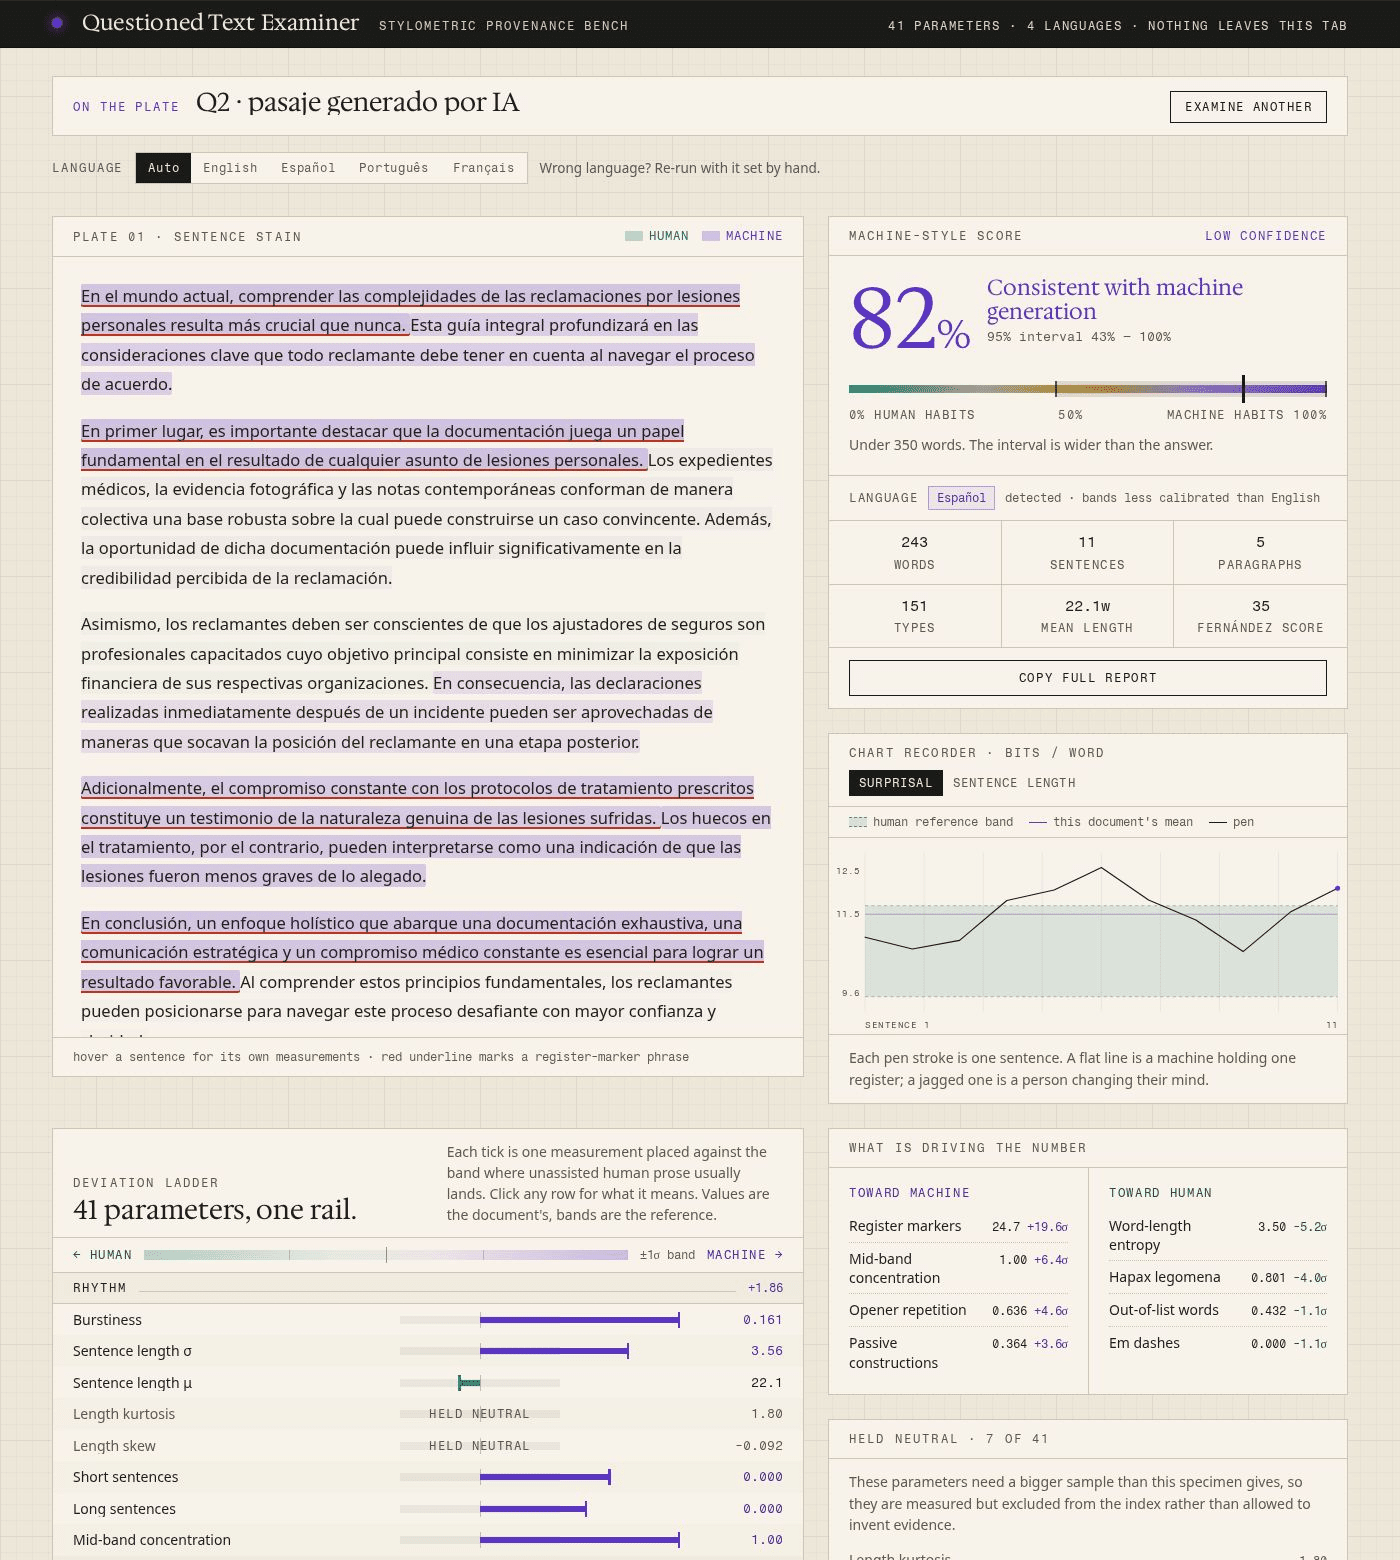
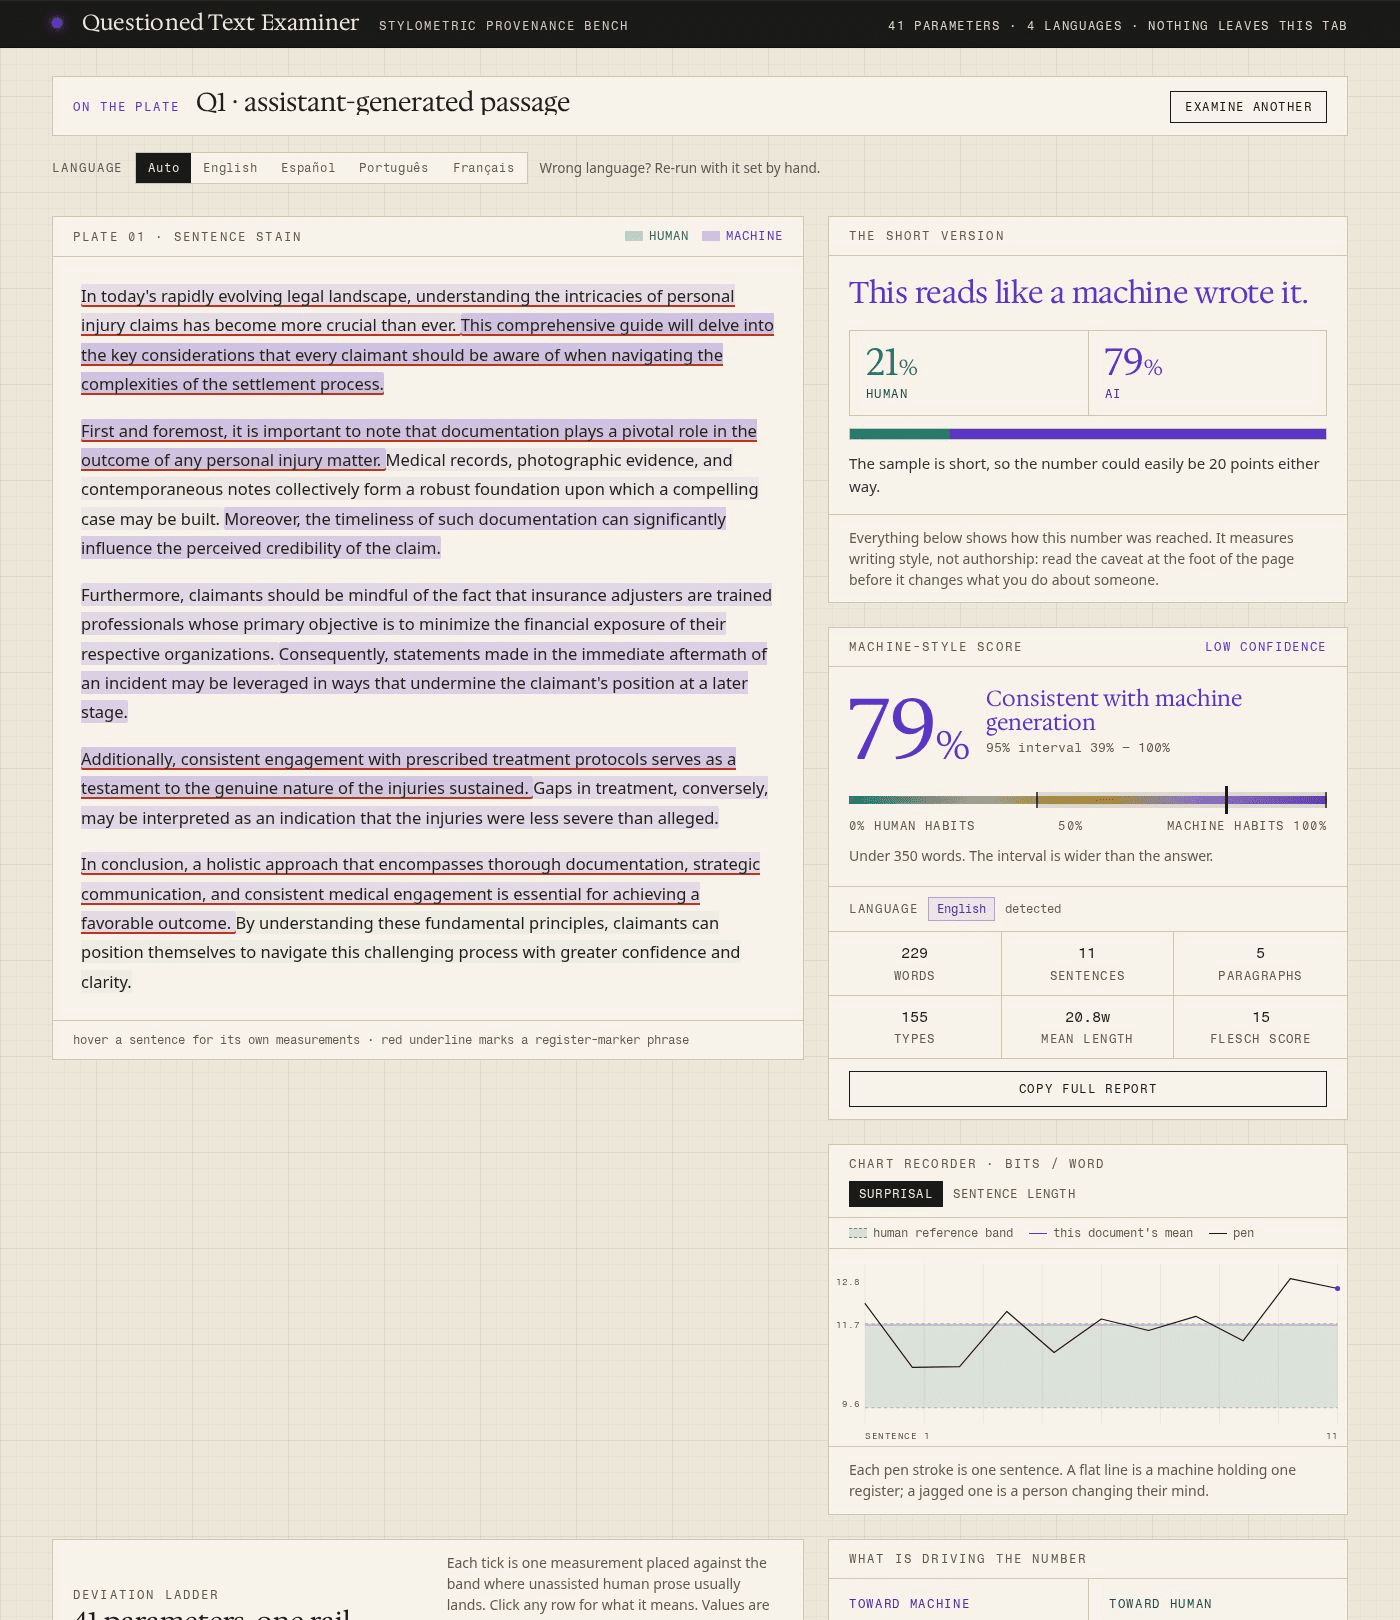
Add files via upload

diff --git a/src/ui/PlainReading.jsx b/src/ui/PlainReading.jsx
@@ -1,0 +1,80 @@
+import { band } from "./Verdict.jsx";
+
+/** The one-sentence version, for anyone who does not want to read a ladder. */
+function verdictSentence(r) {
+  const p = r.percent;
+  if (p < 28) return "This reads like a person wrote it.";
+  if (p < 45) return "This leans human, with some passages that read machine-like.";
+  if (p < 58) return "This could go either way. The bench genuinely cannot tell.";
+  if (p < 75) return "This leans machine-written, probably with human editing on top.";
+  return "This reads like a machine wrote it.";
+}
+
+function trustSentence(r) {
+  if (r.reliability === "insufficient") return "The sample is far too short to mean anything. Treat it as noise.";
+  if (r.reliability === "low") return "The sample is short, so the number could easily be 20 points either way.";
+  if (r.reliability === "moderate") return "Enough text for a direction, not a verdict.";
+  return "The sample is long enough for the measurements to settle.";
+}
+
+export default function PlainReading({ report }) {
+  const b = band(report.index);
+  const human = report.humanPercent;
+  const ai = report.percent;
+
+  return (
+    <section data-anim className="border border-[#CFC6B2] bg-[#F7F3EA]" style={{ animation: "riseIn 520ms ease-out both" }}>
+      <p className="border-b border-[#CFC6B2] px-5 py-2.5 font-['Fragment_Mono'] text-[12px] uppercase tracking-[0.18em] text-[#615A4A]">
+        The short version
+      </p>
+
+      <div className="px-5 pt-5">
+        <p className="font-['Hedvig_Letters_Serif'] text-[30px] leading-[1.12] tracking-[-0.01em]" style={{ color: b.tone }}>
+          {verdictSentence(report)}
+        </p>
+
+        <div className="mt-5 flex items-stretch gap-0 border border-[#CFC6B2]">
+          <div className="flex-1 px-4 py-3">
+            <p className="font-['Hedvig_Letters_Serif'] text-[38px] leading-none text-[#16776A]">
+              {human}
+              <span className="text-[22px]">%</span>
+            </p>
+            <p className="mt-1 font-['Fragment_Mono'] text-[12px] uppercase tracking-[0.12em] text-[#0F5A50]">human</p>
+          </div>
+          <div className="flex-1 border-l border-[#CFC6B2] px-4 py-3">
+            <p className="font-['Hedvig_Letters_Serif'] text-[38px] leading-none text-[#5B33C7]">
+              {ai}
+              <span className="text-[22px]">%</span>
+            </p>
+            <p className="mt-1 font-['Fragment_Mono'] text-[12px] uppercase tracking-[0.12em] text-[#4A25AE]">ai</p>
+          </div>
+        </div>
+
+        <div className="mt-3 flex h-[12px] overflow-hidden border border-[#CFC6B2]">
+          <div style={{ width: `${human}%`, background: "#16776A" }} />
+          <div style={{ width: `${ai}%`, background: "#5B33C7" }} />
+        </div>
+
+        <p className="mt-3 text-[15px] leading-[1.55] text-[#3B372F]">{trustSentence(report)}</p>
+      </div>
+
+      {!report.shape.prose && (
+        <div className="mt-4 border-t border-[#C0341C]/35 bg-[#C0341C]/[0.06] px-5 py-4">
+          <p className="font-['Fragment_Mono'] text-[12px] uppercase tracking-[0.14em] text-[#8A2413]">
+            Ignore the number for this one
+          </p>
+          <p className="mt-1.5 text-[15px] leading-[1.55] text-[#7E1F0F]">
+            This is a list or an outline, not flowing prose ({report.shape.reasons.join(", ")}). Documents shaped like this
+            score human almost automatically, whoever wrote them, because every fragment looks like natural variation. Paste
+            only the real sentences for an answer worth having.
+          </p>
+        </div>
+      )}
+
+      <p className="mt-4 border-t border-[#CFC6B2] px-5 py-3 text-[14px] leading-[1.5] text-[#615A4A]">
+        Everything below shows how this number was reached. It measures writing style, not authorship: read the caveat at the
+        foot of the page before it changes what you do about someone.
+      </p>
+    </section>
+  );
+}

diff --git a/src/engine/analyze.js b/src/engine/analyze.js
@@ -558,11 +558,32 @@ export async function analyze(raw, onProgress = () => {}, opts = {}) {
     foundRegister.sort((a, b) => b[1] - a[1]);
   }
 
+  // Is this document flowing prose at all? Fragment-heavy outlines, tables and
+  // checklists score human almost automatically, because every fragment reads
+  // as a burst of variation. Say so instead of letting the number stand alone.
+  const fragmentRate = shareSent(lens.filter((n) => n < 6).length);
+  const unpunctuated = shareSent(rows.length ? sentRows.filter((r) => !/[.!?…][")'’”]*$/.test(r.text.trim())).length : 0);
+  const wordsPerPara = paraLens.length ? mean(paraLens) : totalWords;
+  // Real hand-typed notes are full of short sentences, so no single symptom is
+  // enough: it takes two, or an overwhelming one, to call a document ineligible.
+  const shape = (() => {
+    const reasons = [];
+    if (raws.listRate > 0.3) reasons.push(`${Math.round(raws.listRate * 100)}% of lines are bulleted or numbered`);
+    if (wordsPerPara < 12 && paras.length > 8) reasons.push(`paragraphs average only ${wordsPerPara.toFixed(0)} words`);
+    if (fragmentRate > 0.42) reasons.push(`${Math.round(fragmentRate * 100)}% of sentences are under six words`);
+    if (unpunctuated > 0.5) reasons.push(`${Math.round(unpunctuated * 100)}% of lines end without punctuation`);
+    const overwhelming = raws.listRate > 0.6 || (wordsPerPara < 8 && paras.length > 12);
+    if (reasons.length >= 2 || overwhelming) return { prose: false, reasons, severity: "high" };
+    return { prose: true, reasons };
+  })();
+
   onProgress({ phase: "Done", pct: 1 });
 
   return {
     index,
     percent: Math.round(index * 100),
+    humanPercent: 100 - Math.round(index * 100),
+    shape,
     half, logit, signals, families, rows,
     language: {
       code: L.code,

diff --git a/src/ui/Verdict.jsx b/src/ui/Verdict.jsx
@@ -119,6 +119,14 @@ function buildReport(r, source) {
   L.push(`specimen: ${source || "untitled"}`);
   L.push(`generated: ${new Date().toISOString()}`);
   L.push("");
+  L.push(`PLAIN READING: ${r.humanPercent}% human / ${r.percent}% AI — ${b.label.toLowerCase()}`);
+  if (!r.shape.prose) {
+    L.push("");
+    L.push("!! DOCUMENT SHAPE WARNING: this is a list or outline, not flowing prose");
+    L.push(`   (${r.shape.reasons.join(", ")}). Text shaped like this scores human`);
+    L.push("   almost automatically, whoever wrote it. The score above is not usable.");
+  }
+  L.push("");
   L.push(`MACHINE-STYLE SCORE: ${r.percent}%   (95% CI ${Math.round(Math.max(0, r.index - r.half) * 100)}%–${Math.round(Math.min(1, r.index + r.half) * 100)}%)`);
   L.push(`reading: ${b.label}`);
   L.push(`sample reliability: ${r.reliability}`);

diff --git a/src/App.jsx b/src/App.jsx
@@ -40,6 +40,7 @@ import { analyze, SIGNAL_SPEC } from "./engine/analyze.js";
 import { SUPPORTED } from "./engine/languages/index.js";
 import { extractText } from "./engine/extract.js";
 import Intake from "./ui/Intake.jsx";
+import PlainReading from "./ui/PlainReading.jsx";
 import Verdict from "./ui/Verdict.jsx";
 import Trace from "./ui/Trace.jsx";
 import Ladder from "./ui/Ladder.jsx";
@@ -126,6 +127,7 @@ export default function App() {
                 <Plate report={report} />
               </div>
               <div className="order-1 space-y-6 lg:order-2 lg:sticky lg:top-6">
+                <PlainReading report={report} />
                 <Verdict report={report} source={source} />
                 <Trace report={report} />
               </div>

diff --git a/README.md b/README.md
@@ -4,7 +4,7 @@ A local, inspectable stylometric bench for the question "was this document writt
 
 It reads a file in your browser, measures **41 stylometric parameters** across six families, and reports each one next to the reference band where unassisted human prose usually lands. Nothing is uploaded, no API key is needed, and there is no size ceiling: the file is parsed and measured in the tab, then forgotten when you close it.
 
-Works in **English, Spanish, Portuguese and French**. The result is a single **machine-style percentage** with a confidence interval that widens honestly on short samples.
+Works in **English, Spanish, Portuguese and French**. It opens with a plain-language verdict ("This reads like a person wrote it") and a **human / AI percentage split**, then shows every measurement that produced it. The confidence interval widens honestly on short samples, and documents that are not really prose are flagged as unscorable.
 
 ![Intake screen: language selector, drop zone, reference specimens in English and Spanish, and the six parameter families](docs/screenshot.png)
 
@@ -109,7 +109,8 @@ Adding a language means writing one file in `src/engine/languages/`, registering
 4. **Hold what cannot be trusted.** Parameters needing a bigger sample than the specimen gives (Zipf slope under 600 words, repeated 5-grams under 300, readability σ without three real paragraphs, and so on) are measured and displayed but **held neutral**, with weight zero. They are not allowed to invent evidence.
 5. **Combine.** A weighted mean of the clamped deviations becomes a logit, then `index = σ(1.55 × logit)` on 0–1.
 6. **Bound it.** The 95% interval half-width is `0.52 / √(1 + words/220) + 0.035`, so short samples visibly refuse to commit.
-7. **Report it.** The index is presented as a percentage (`index × 100`), with the 0–1 value kept in the copyable report.
+7. **Report it.** The index is presented as a percentage (`index × 100`) and its human complement, with the 0–1 value kept in the copyable report.
+8. **Check eligibility.** Bulleted lines, tiny paragraphs, sentence fragments and missing terminal punctuation are counted. Two or more symptoms marks the document as non-prose: outlines and checklists score human almost automatically, whoever wrote them, so the app says so instead of letting the number stand.
 
 ### The surprisal model
 
@@ -194,9 +195,10 @@ Click any row in the app for the reasoning behind that parameter, the observed v
 
 ## Reading the output
 
-![Report screen: Spanish specimen scored 82% machine-style, with sentence stain plate, chart recorder and deviation ladder](docs/screenshot-report.png)
+![Report screen: plain-language verdict with a 21% human / 79% AI split, sentence stain plate, chart recorder and deviation ladder](docs/screenshot-report.png)
 
-- **Machine-style score** — a percentage with a sample-size confidence interval and a plain-language band, from "consistent with human authorship" to "consistent with machine generation".
+- **The short version** — one sentence, a human/AI percentage split, and a plain statement of how much the sample can bear. If the document is a list rather than prose, this is where it says to ignore the number.
+- **Machine-style score** — the same percentage with a sample-size confidence interval and a plain-language band, from "consistent with human authorship" to "consistent with machine generation".
 - **Sentence stain plate** — every sentence tinted by its own score; hover for its word count, surprisal, deviation from the document mean, and marker hits. Red underline marks a register-marker phrase.
 - **Chart recorder** — surprisal (or sentence length) per sentence against the human band, with the document's own mean. The flat-versus-jagged read is the fastest signal in the whole app.
 - **Deviation ladder** — all 41 parameters as ticks on one rail, grouped by family, with held-neutral rows called out.
@@ -217,8 +219,9 @@ src/
       en.js es.js pt.js fr.js
   ui/
     Intake.jsx         drop zone, paste mode, progress, specimen buttons
-    Verdict.jsx        index, interval, corpus stats, report builder
+    Verdict.jsx        score, interval, language, corpus stats, report builder
     Trace.jsx          chart recorder
+    PlainReading.jsx   one-sentence verdict, human/AI split, shape warning
     Ladder.jsx         deviation ladder
     Plate.jsx          sentence stain plate
     Findings.jsx       drivers, held-neutral list, marker hits, raw values
